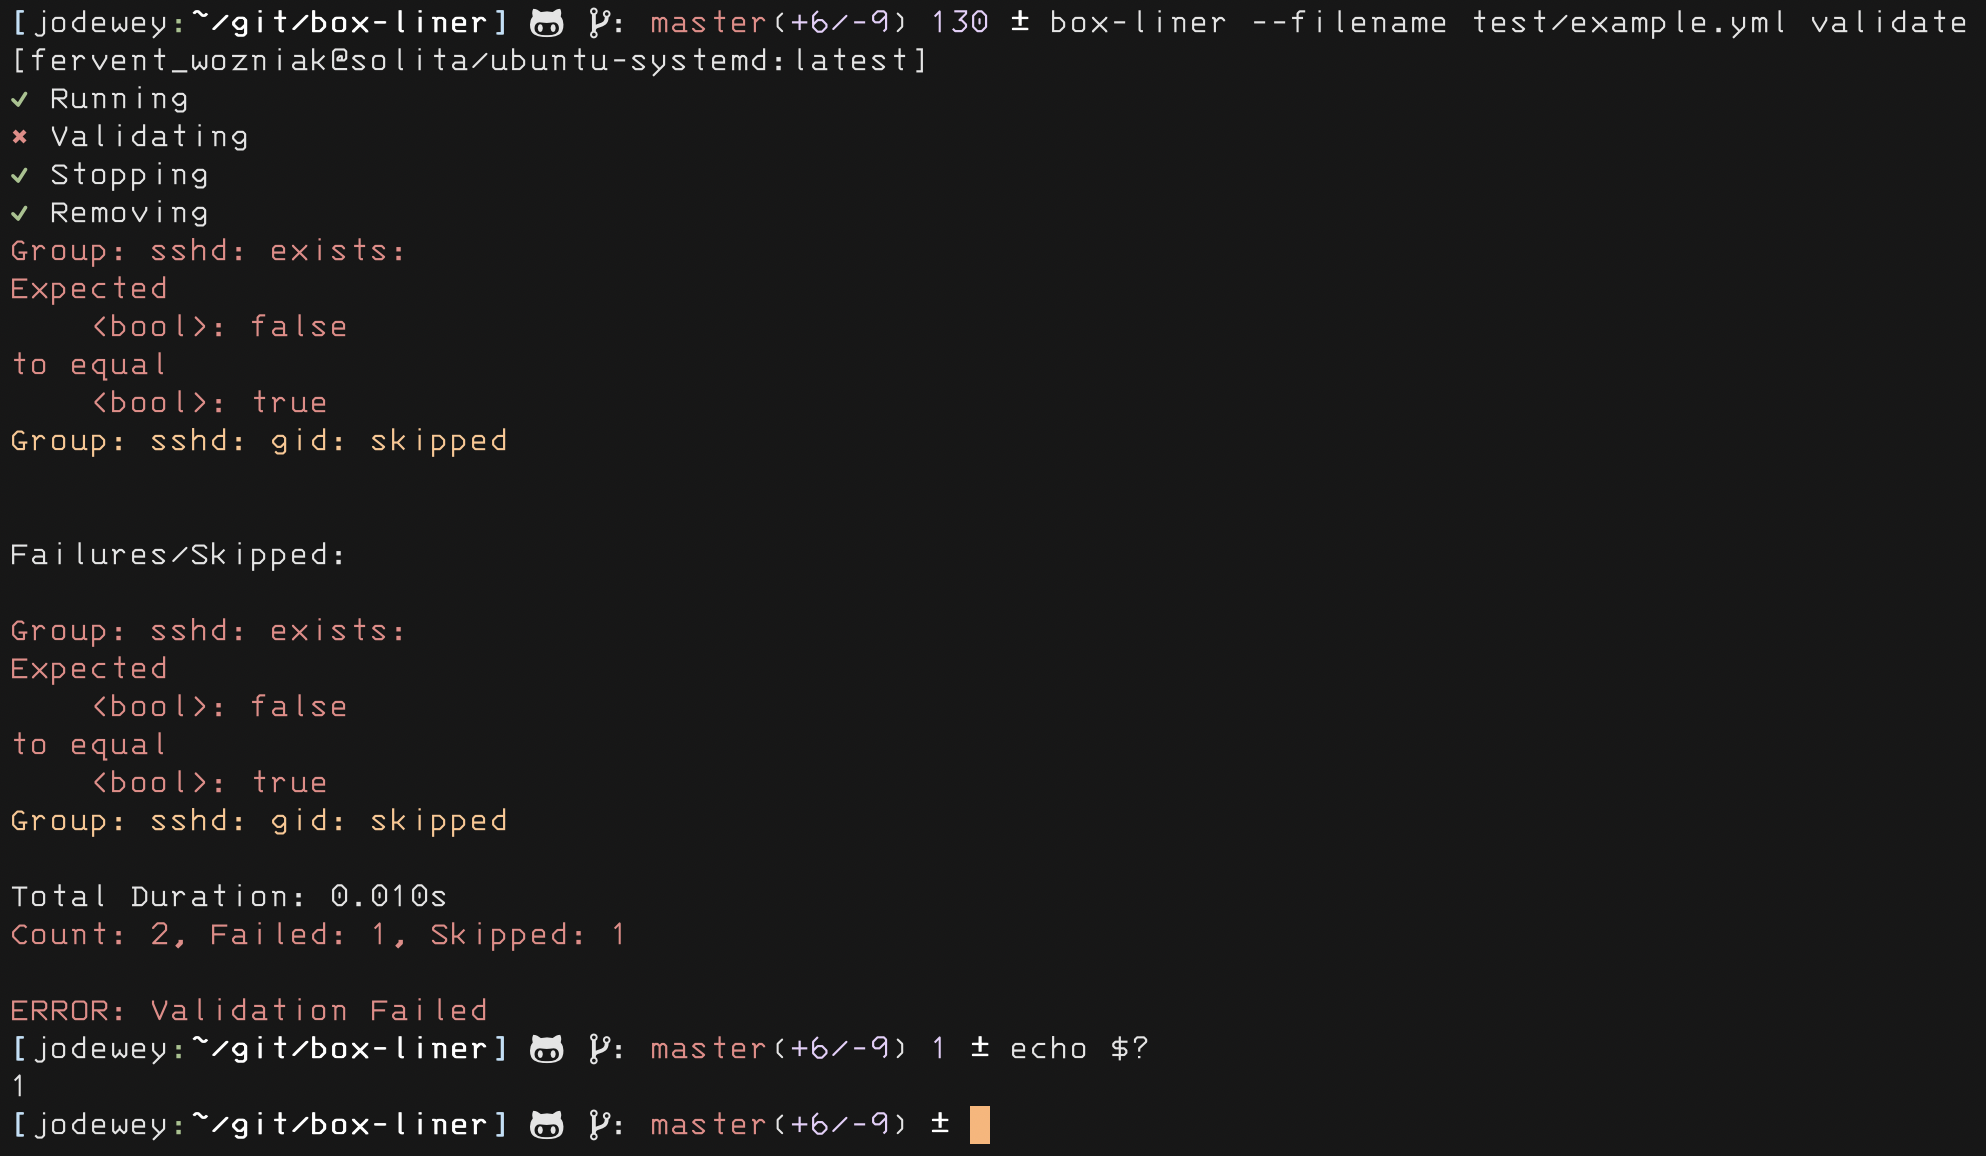
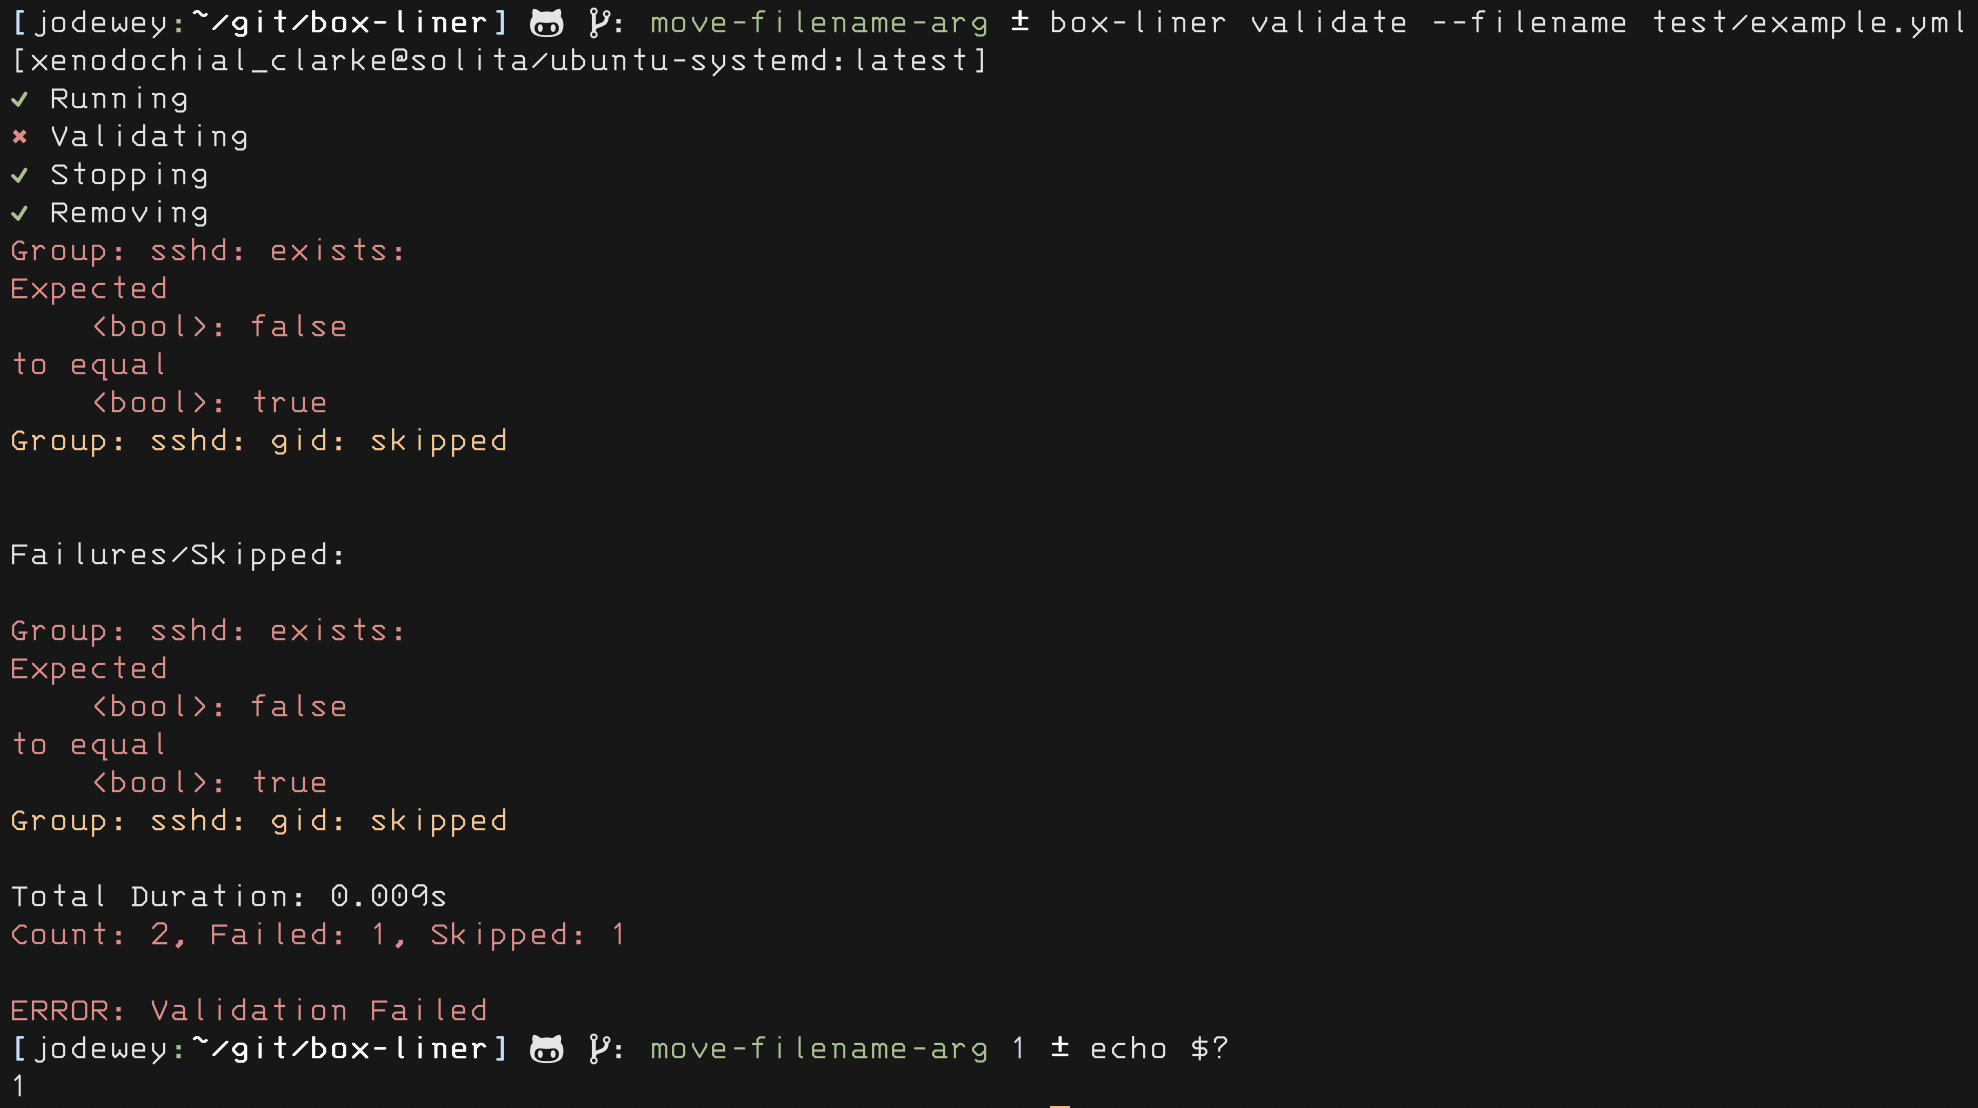
Moved filename arg to validate subcommand

diff --git a/boxliner/cmd/validate.py b/boxliner/cmd/validate.py
@@ -29,12 +29,16 @@ from boxliner import util
 
 
 @click.command()
+@click.option(
+    '--filename',
+    default='boxliner.yml',
+    help='Path to boxliner file.  Default boxliner.yml')
 @click.option('--image', help='Image to test.')
 @click.option('--command', help='Command image should execute.')
 @click.option('--goss-file', help='Path to Goss test file.')
 @click.option('--goss-binary', help='Path to Goss binary.')
 @click.pass_context
-def validate(ctx, image, command, goss_file, goss_binary):
+def validate(ctx, filename, image, command, goss_file, goss_binary):
     """ Run and validate the container. """
 
     args = ctx.obj.get('args')
@@ -44,7 +48,6 @@ def validate(ctx, image, command, goss_file, goss_binary):
         'goss_file': goss_file,
         'goss_binary': goss_binary,
     }
-    filename = args.get('filename')
     _setup(filename)
 
     with util.open_file(filename) as stream:

diff --git a/boxliner/shell.py b/boxliner/shell.py
@@ -32,16 +32,12 @@ click_completion.init()
 
 @click.group()
 @click.option(
-    '--filename',
-    default='boxliner.yml',
-    help='Path to boxliner file.  Default boxliner.yml')
-@click.option(
     '--debug/--no-debug',
     default=False,
     help='Enable or disable debug mode. Default is disabled.')
 @click.version_option(version=boxliner.__version__)
 @click.pass_context
-def main(ctx, filename, debug):  # pragma: no cover
+def main(ctx, debug):  # pragma: no cover
     """
     \b
     .              .
@@ -56,7 +52,6 @@ def main(ctx, filename, debug):  # pragma: no cover
     ctx.obj = {}
     ctx.obj['args'] = {}
     ctx.obj['args']['debug'] = debug
-    ctx.obj['args']['filename'] = filename
 
 
 main.add_command(cmd.validate.validate)
